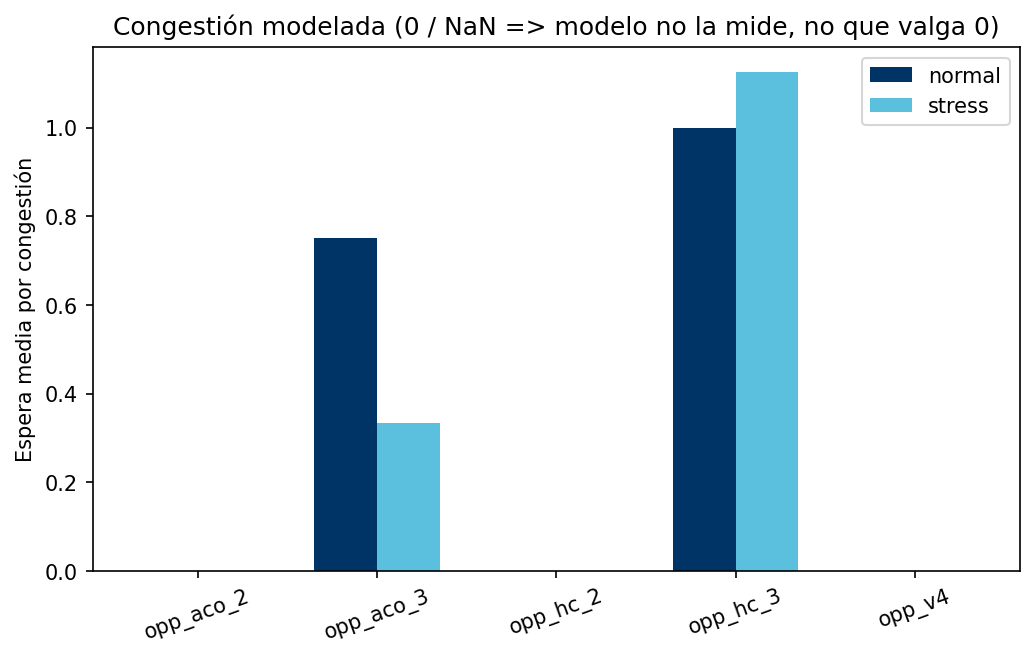
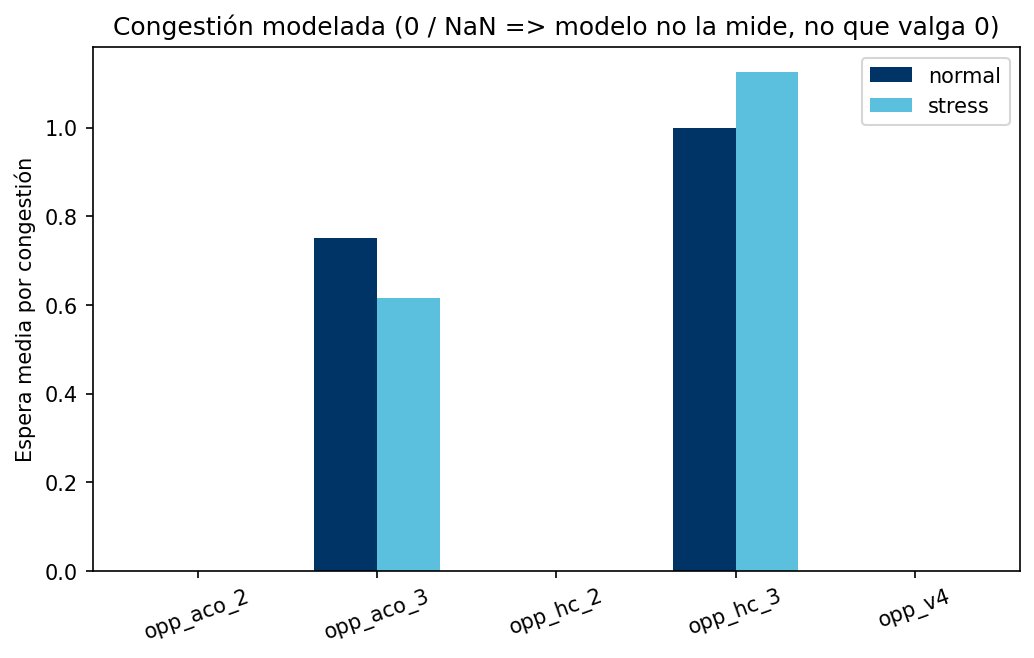
Run analysis with new stress tests results, update results and readme

Changed region(s): [[0.3404, 0.4559, 0.4333, 0.6687]]

diff --git a/docs/results_outline.md b/docs/results_outline.md
@@ -9,28 +9,34 @@ gráfico/tabla citar**, **qué conclusión defendible se puede escribir**.
 - Tabla 1 + `mean_time_stress.png`.
 - `opp_v4` (exacto): 97.7% en normal, **12.5% en estrés** (1/8). Ninguna
   instancia no-trivial converge dentro de 25 min.
-- Heurísticas en estrés: `opp_hc_3` 85%, `opp_aco_2` 75%, `opp_hc_2` 74.4%
-  (batería de 34, la más grande), `opp_aco_3` 35%.
+- Heurísticas en estrés (post-fix de performance, 2026-08-27): `opp_hc_3`
+  85%, `opp_aco_2` 85%, `opp_hc_2` 74.4% (batería de 34, la más grande),
+  `opp_aco_3` 70%. `aco_2`/`aco_3` subieron su tasa de éxito respecto a la
+  medición pre-fix (75%→85% y 35%→70%) -- con rutas más rápidas de
+  construir, menos instancias pegan contra el timeout externo antes de que
+  el algoritmo termine de converger.
 - Conclusión: el modelo exacto deja de ser viable apenas se sale de
   instancias de juguete — sustenta la necesidad de heurísticos para
   cualquier caso de uso real. Entre los heurísticos, hay una jerarquía
   clara que **no** es "todos convergen igual".
 
-## 2. Tiempo de ejecución: ⚠ números de estrés desactualizados, hay que
-   volver a correr antes de escribir esta sección
+## 2. Tiempo de ejecución (datos post-fix de performance, 2026-08-27)
 
 - Tabla 2 + `mean_time_normal.png` / `mean_time_stress.png` (escala log).
-- Los valores de estrés para `opp_aco_2`/`opp_aco_3` que están hoy en
-  `analysis/output/report.md` (`hc_2` ~18s, `hc_3` ~5s, `aco_2` ~595s,
-  `aco_3` ~985s) se midieron **antes** del fix de performance del
-  2026-08-27 (ver más abajo) y ya no son representativos — con el fix, un
-  caso que tardaba 566s ahora tarda 3.7s (~153x). Falta re-correr las
-  baterías de estrés de `aco_2`/`aco_3` para tener la tabla real.
-- Lo que **no** cambia con el fix: el ranking relativo entre modelos podría
-  invertirse o achicarse, pero recién se sabe con los datos nuevos — no
-  escribir esta sección hasta tenerlos.
-- Normal ya era rápido en los 4 heurísticos (ms), no se espera que cambie la
-  conclusión ahí; los números de esa tabla siguen siendo válidos.
+- Estrés, media de tiempo (solo casos `ok`): `opp_hc_3` 4.96s, `opp_hc_2`
+  18.3s, `opp_aco_2` **52.6s** (antes 595s, ~11x), `opp_aco_3` **274.5s**
+  (antes 985s, ~3.6x).
+- El fix de performance (sección siguiente) mejora mucho los tiempos
+  absolutos de ACO, pero **no invierte el ranking**: HC sigue siendo
+  bastante más rápido que ACO en ambos pares (`hc_2` < `aco_2`, `hc_3` <
+  `aco_3`). Tiene sentido -- HC construye la ruta una sola vez de forma
+  greedy; ACO repite la construcción `A_ants × Max_it` veces por
+  definición del algoritmo, así que aun con el mismo costo por paso
+  arreglado, hace muchísimo más trabajo total. El fix cerró la brecha que
+  era "anormal" (el bug O(V) por paso), no la brecha estructural esperada
+  entre construir una ruta y buscar entre muchas.
+- Normal ya era rápido en los 4 heurísticos (ms) y no cambió la conclusión
+  ahí.
 
 ## Hallazgo metodológico: bug de performance O(V) en la construcción de rutas
 
@@ -82,8 +88,14 @@ efectivamente se pueda correr a la escala que la tesina necesita.
 - Tabla 5 + `congestion_wait.png`.
 - `opp_hc_3`/`opp_aco_3` son los únicos que miden espera por congestión
   (`opp_hc_2`/`opp_aco_2`/`opp_v4` no la modelan — por diseño).
-- Sobrecosto de tiempo por modelar congestión, estrés: `opp_hc_3` +0.05%
-  (dentro del ruido) vs. `opp_hc_2`; `opp_aco_3` **+263%** vs. `opp_aco_2`.
+- Sobrecosto de tiempo por modelar congestión, estrés (post-fix,
+  2026-08-27): `opp_hc_3` +0.05% (dentro del ruido) vs. `opp_hc_2`;
+  `opp_aco_3` **+513%** vs. `opp_aco_2` (subió del +263% medido antes del
+  fix -- no porque `aco_3` haya empeorado en términos absolutos, sino
+  porque `aco_2` mejoró mucho más en términos relativos: el fix ayuda más
+  cuanto más simple es la construcción de ruta por paso, y `aco_2` no paga
+  el switch probabilístico τ1/τ2 que sí paga `aco_3`. La asimetría entre
+  arquitecturas es todavía más marcada con datos correctos, no menos).
 - Por qué: `opp_hc_3` sigue construyendo la ruta con Dijkstra determinístico
   y solo *precia* la congestión al final — casi gratis. `opp_aco_3` decide,
   paso a paso, entre la matriz de feromona de tiempo y la de congestión
@@ -95,17 +107,28 @@ efectivamente se pueda correr a la escala que la tesina necesita.
   incorporar congestión depende fuertemente de cómo está diseñado el
   heurístico base, no es un costo fijo del fenómeno en sí**.
 
-## 6. Sensibilidad paramétrica: V pesa más que N en estrés
+## 6. Sensibilidad paramétrica: V pesa más que N en estrés (matiz: no en aco_3)
 
 - Tabla 6 + los 4 scatters (`hc_2`/N, `aco_2`/V, `hc_3`/V, `aco_3`/N).
+  Números post-fix de performance (2026-08-27, más instancias `ok` que
+  antes al bajar el timeout externo).
 - En estrés, `V` (tamaño de grafo) correlaciona más fuerte con el tiempo que
-  `N` (cantidad de pedidos) tanto en `hc_2` (r=0.68) como `aco_2` (r=0.71).
-- En normal es al revés: `N` pesa más que `V` (`hc_2` r=0.57 vs. 0.33).
+  `N` (cantidad de pedidos) en `hc_2` (r=0.68) y `aco_2` (r=0.70).
+- `hc_3` en estrés: V (0.23) y N (0.17) parecidos, sin dominancia clara.
+  `aco_3` en estrés **rompe el patrón**: N (0.58) domina sobre V (0.24) --
+  lo opuesto a `aco_2`. Posible explicación: en `aco_3` el costo por paso ya
+  no es solo "moverse en el grafo" sino también el switch probabilístico
+  τ1/τ2 y el chequeo de congestión, que escalan más con la cantidad de
+  pedidos/lotes a programar (N) que con el tamaño del grafo (V) -- hipótesis
+  a mencionar como tal, no como conclusión firme dado el n chico.
+- En normal es al revés en `hc_2`: `N` pesa más que `V` (r=0.57 vs. 0.33).
 - Confirma la hipótesis original de `specs/model_analysis.md` sec. 5
-  ("asintotismo exponencial vs. V") — pero solo se manifiesta a escala de
-  estrés, no en instancias chicas.
-- Muestras: `hc_2` n=32, `hc_3` n=20 (confiables); `aco_2` n=15 (razonable);
-  `aco_3` n=7 (chica — aclarar como limitación, no ocultar).
+  ("asintotismo exponencial vs. V") para `hc_2`/`aco_2` -- pero solo se
+  manifiesta a escala de estrés, no en instancias chicas, y no es universal
+  entre los 4 heurísticos (`aco_3` es la excepción).
+- Muestras en estrés (post-fix): `hc_2` n=32, `hc_3` n=17, `aco_2` n=17
+  (subió de 15), `aco_3` n=14 (subió bastante de 7 -- ya no es una muestra
+  tan chica, aunque sigue siendo la más chica de las cuatro).
 
 ## Hallazgo transversal: el bug de construcción de rutas de ACO
 
@@ -167,17 +190,31 @@ directamente contra SCIP que la hipótesis es incorrecta**:
   candidato para la sección de "trabajo futuro" de la tesina -- por ejemplo,
   agregar backtracking real (no solo revisita aleatoria) a la construcción
   greedy de HC.
+- **Decisión (2026-08-27): no se implementa ningún fix para esto.** Se
+  evaluaron dos opciones concretas -- (a) en HC, caer a resolver el lote
+  puntual como sub-problema exacto vía SCIP cuando el greedy falla (~2s,
+  ya demostrado que funciona, pero le agrega a HC una dependencia de
+  `zimpl`/SCIP y cambia su naturaleza de heurístico puro); (b) en ACO,
+  agregar lookahead a la selección de vecino en vez de solo reintentar al
+  azar -- y se decidió dejarlo documentado como limitación conocida en vez
+  de implementarlas: el hallazgo es válido y defendible tal cual ("HC/ACO
+  tienen un límite estructural de construcción, demostrado contra SCIP") y
+  no compromete los stress tests ya corridos ni los que están en curso.
 
 ---
 
 ## Pendiente antes de dar esto por cerrado
 
-1. **Re-correr `opp_aco_2`/`opp_aco_3` en estrés** con el fix de performance
-   (sección 2) -- los números actuales del reporte son de la versión lenta.
-   *(En curso, 2026-08-27: Lucia corriendo de a poco.)*
+1. ~~Re-correr `opp_aco_2`/`opp_aco_3` en estrés con el fix de
+   performance~~ -- **hecho (2026-08-27)**: `aco_2` 595s→52.6s (~11x,
+   75%→85% éxito), `aco_3` 985s→274.5s (~3.6x, 35%→70% éxito). Pipeline
+   regenerado, `analysis/output/report.md` y este bosquejo ya reflejan los
+   números nuevos.
 2. ~~Correr `test_single_batch_infeasibility_check.py` contra SCIP~~ --
    **hecho (2026-08-27)**: `status=optimal` en 1.8s, hipótesis de
    infeasibilidad por construcción **refutada**. Ver hallazgo actualizado
    arriba.
-3. Con (1) ya se puede escribir la sección de resultados sin tener que
-   volver a corregirla después.
+
+Con (1) y (2) resueltos, ya no queda ningún dato pendiente de re-correr --
+se puede pasar a escribir la sección de resultados de la tesina a partir de
+este bosquejo.

diff --git a/analysis/output/report.md b/analysis/output/report.md
@@ -5,9 +5,9 @@
 | model | scenario | total | ok | timeout | failed | success_rate_pct |
 | --- | --- | --- | --- | --- | --- | --- |
 | opp_aco_2 | normal | 48 | 48 | 0 | 0 | 100.0 |
-| opp_aco_2 | stress | 20 | 15 | 4 | 1 | 75.0 |
+| opp_aco_2 | stress | 20 | 17 | 1 | 2 | 85.0 |
 | opp_aco_3 | normal | 12 | 12 | 0 | 0 | 100.0 |
-| opp_aco_3 | stress | 20 | 7 | 10 | 3 | 35.0 |
+| opp_aco_3 | stress | 20 | 14 | 1 | 5 | 70.0 |
 | opp_hc_2 | normal | 46 | 46 | 0 | 0 | 100.0 |
 | opp_hc_2 | stress | 43 | 32 | 11 | 0 | 74.4 |
 | opp_hc_3 | normal | 6 | 6 | 0 | 0 | 100.0 |
@@ -20,9 +20,9 @@
 | model | scenario | mean_time | std_time | max_time | n |
 | --- | --- | --- | --- | --- | --- |
 | opp_aco_2 | normal | 0.23610588908195493 | 0.327672399058028 | 1.4354429244995115 | 48 |
-| opp_aco_2 | stress | 595.1063223203023 | 489.855367722978 | 1636.7055459022522 | 15 |
+| opp_aco_2 | stress | 52.626901879030115 | 51.50154927523458 | 159.47207021713257 | 17 |
 | opp_aco_3 | normal | 0.025555570920308385 | 0.04387347950663957 | 0.1223242282867431 | 12 |
-| opp_aco_3 | stress | 985.4330116680691 | 1080.529310656214 | 2274.397418022156 | 7 |
+| opp_aco_3 | stress | 274.496099284717 | 288.75962323931503 | 1020.2660281658171 | 14 |
 | opp_hc_2 | normal | 0.008851419324460201 | 0.0043273053102638 | 0.0224010944366455 | 46 |
 | opp_hc_2 | stress | 18.320306666195393 | 54.18233231800621 | 296.41067695617676 | 32 |
 | opp_hc_3 | normal | 0.0038505395253499003 | 0.002514931435436244 | 0.0064420700073242 | 6 |
@@ -53,7 +53,7 @@
 | opp_aco_2 | normal | nan | nan | nan | 0 | False |
 | opp_aco_2 | stress | nan | nan | nan | 0 | False |
 | opp_aco_3 | normal | 0.75 | 1.5 | 3.0 | 4 | True |
-| opp_aco_3 | stress | 0.3333333333333333 | 0.816496580927726 | 2.0 | 6 | True |
+| opp_aco_3 | stress | 0.6153846153846154 | 1.2608503439122305 | 4.0 | 13 | True |
 | opp_hc_2 | normal | nan | nan | nan | 0 | False |
 | opp_hc_2 | stress | nan | nan | nan | 0 | False |
 | opp_hc_3 | normal | 1.0 | 1.7320508075688772 | 3.0 | 3 | True |
@@ -68,7 +68,7 @@
 | normal | -15.574779336779315 | 1 | opp_hc_3 | opp_hc_2 |
 | stress | 0.04639007306842391 | 16 | opp_hc_3 | opp_hc_2 |
 | normal | 99.5794968744288 | 1 | opp_aco_3 | opp_aco_2 |
-| stress | 262.6264325416152 | 7 | opp_aco_3 | opp_aco_2 |
+| stress | 512.7704991022023 | 14 | opp_aco_3 | opp_aco_2 |
 
 ## 6. Sensibilidad paramétrica (correlación de Pearson con total_time)
 
@@ -76,8 +76,8 @@
 
 | model | N | V | B | C_v | W_full | W_ea_ta | n |
 | --- | --- | --- | --- | --- | --- | --- | --- |
-| opp_aco_2 | 0.4027 | 0.8408 | 0.4114 | 0.5707 | 0.5721 | -0.3943 | 63 |
-| opp_aco_3 | 0.7032 | 0.5954 | 0.3755 | 0.851 | 0.5107 | -0.2136 | 11 |
+| opp_aco_2 | 0.535 | 0.8314 | 0.4722 | 0.5915 | 0.5276 | -0.3722 | 65 |
+| opp_aco_3 | 0.6342 | 0.3802 | 0.4262 | 0.622 | 0.4216 | -0.1912 | 18 |
 | opp_hc_2 | 0.5505 | 0.7019 | 0.2855 | 0.5819 | 0.2203 | -0.1631 | 78 |
 | opp_hc_3 | 0.2439 | 0.314 | 0.0174 | 0.5458 | 0.2783 | -0.152 | 20 |
 | opp_v4 | 0.7512 | 0.4409 | 0.9152 | -0.0178 | 0.4444 | -0.387 | 23 |
@@ -87,9 +87,9 @@
 | model | scenario | N | V | B | C_v | W_full | W_ea_ta | n |
 | --- | --- | --- | --- | --- | --- | --- | --- | --- |
 | opp_aco_2 | normal | 0.4544 | 0.4759 | 0.5016 | 0.0808 | -0.015 | -0.496 | 48 |
-| opp_aco_2 | stress | -0.0153 | 0.7145 | -0.1003 | 0.0933 | nan | nan | 15 |
+| opp_aco_2 | stress | 0.2289 | 0.6957 | 0.0605 | 0.2004 | nan | nan | 17 |
 | opp_aco_3 | normal | 0.2256 | 0.2256 | 0.9256 | -0.6652 | nan | 0.6652 | 4 |
-| opp_aco_3 | stress | 0.6414 | 0.3759 | 0.1614 | 0.7922 | nan | nan | 7 |
+| opp_aco_3 | stress | 0.5777 | 0.2352 | 0.2924 | 0.5184 | nan | nan | 14 |
 | opp_hc_2 | normal | 0.5745 | 0.3289 | 0.2616 | 0.0451 | -0.077 | -0.4117 | 46 |
 | opp_hc_2 | stress | 0.5058 | 0.6826 | 0.1746 | 0.5778 | 0.0616 | -0.0616 | 32 |
 | opp_hc_3 | normal | 0.9629 | 0.9629 | nan | 0.9629 | nan | -0.9629 | 3 |

diff --git a/analysis/README.md b/analysis/README.md
@@ -228,11 +228,17 @@ converger (densidad 25) también corre ~16x más rápido aunque el resultado
 final (`infeasible`) no cambia -- confirma que ese límite es matemático, no
 de velocidad.
 
-**Los números de tiempo de estrés para `opp_aco_2`/`opp_aco_3` en las
-tablas de este documento y en `analysis/output/report.md` son anteriores a
-este fix y están desactualizados** -- hay que volver a correr esas dos
-baterías de estrés para tener cifras reales. `opp_hc_2`/`opp_hc_3` también
-mejoraron, pero ya eran rápidas: no se espera que cambie la conclusión ahí.
+**Actualizado (2026-08-27): ya se re-corrieron `opp_aco_2`/`opp_aco_3` en
+estrés con el fix aplicado.** `analysis/output/report.md` refleja los
+números nuevos: `aco_2` stress mean 595s→52.6s (~11x), tasa de éxito
+75%→85%; `aco_3` stress mean 985s→274.5s (~3.6x), tasa de éxito 35%→70%.
+`opp_hc_2`/`opp_hc_3` también mejoraron, pero ya eran rápidas: no cambió la
+conclusión ahí. El ranking relativo NO se invirtió -- HC sigue siendo más
+rápido que ACO en ambos pares, porque ACO repite la construcción de ruta
+`A_ants × Max_it` veces por diseño; el fix arregla el costo anormal por
+paso, no la diferencia estructural esperada entre "una construcción greedy"
+y "una búsqueda con muchas hormigas". Ver `docs/results_outline.md`
+secciones 1-2 para el detalle.
 
 Los tests de estrés pueden tardar bastante por instancia, sobre todo en ACO
 (hasta ~38 min ya vistos en `opp_aco_3`) — correrlos con
